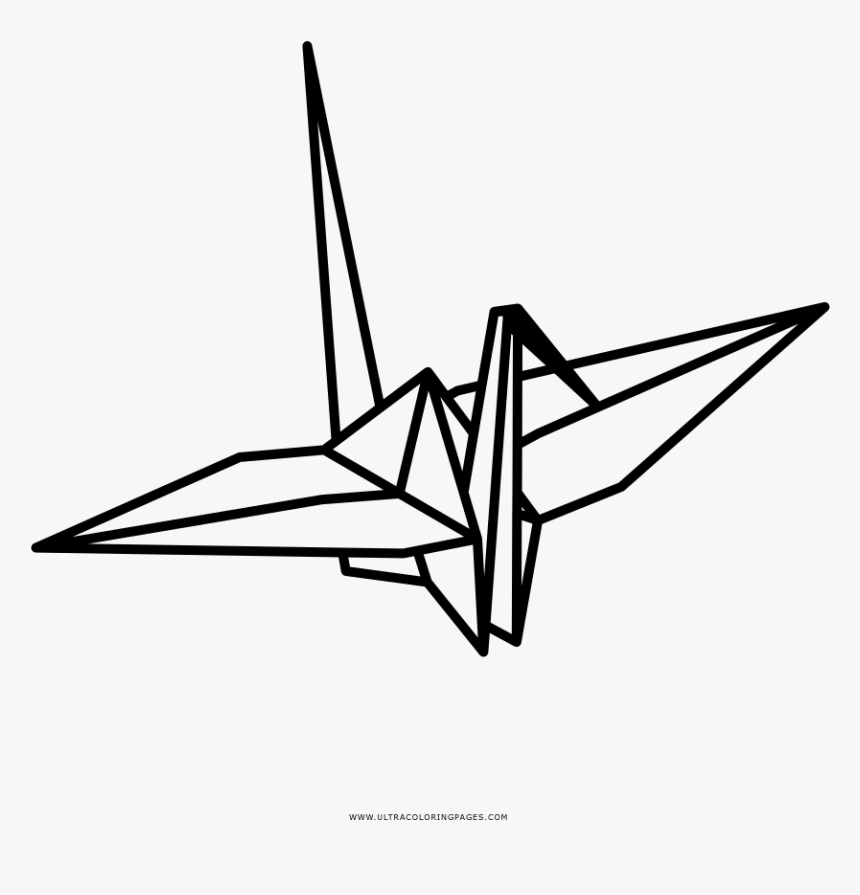
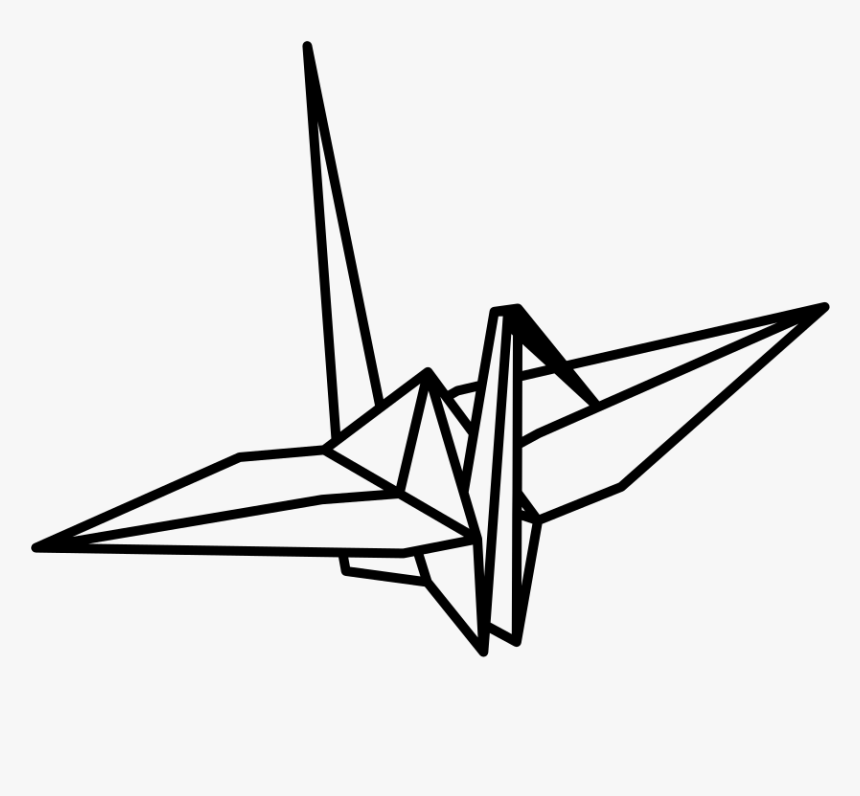
idk updates

Changed region(s): [[0.0302, 0.0603, 0.9674, 0.8442], [0.393, 0.9045, 0.5744, 0.9347], [0.3326, 0.0302, 0.3628, 0.0603]]

diff --git a/projects.js b/projects.js
@@ -42,17 +42,17 @@ const PROJECTS = [
     coverImage:  "main.jpeg",
     link: ""
   },
-  {
-    id: "boids",
-    name: "Boids Algorithm Simulation",
-    cat: "Class",
-    dateStart: "2026-04",
-    date: "2026-05",
-    desc: "Simulates Boids Algorithm for bird flocking behavior for Computational Physics Final Project.",
-    body: "",
-    tags: ["Python", "JavaScript"],
-    link: ""
-  },
+  // {
+  //   id: "boids",
+  //   name: "Boids Algorithm Simulation",
+  //   cat: "Class",
+  //   dateStart: "2026-04",
+  //   date: "2026-05",
+  //   desc: "Simulates Boids Algorithm for bird flocking behavior for Computational Physics Final Project.",
+  //   body: "",
+  //   tags: ["Python", "JavaScript"],
+  //   link: ""
+  // },
   {
     id: "meca",
     name: "6-Axis Robot Arm Control & Simulation",
@@ -75,17 +75,17 @@ const PROJECTS = [
     tags: ["MATLAB", "Arduino"],
     link: ""
   },
-  {
-    id: "cvt",
-    name: "Variable Extruder Design",
-    cat: "Research",
-    dateStart: "2025-06",
-    date: "present",
-    desc: "Short description of what this project does and what you learned from it.",
-    body: "",
-    tags: ["MATLAB", "Autodesk Inventor", "3D Printing", "Rapid Prototyping", "Laser Cutting"],
-    link: ""
-  },
+  // {
+  //   id: "cvt",
+  //   name: "Variable Extruder Design",
+  //   cat: "Research",
+  //   dateStart: "2025-06",
+  //   date: "present",
+  //   desc: "Short description of what this project does and what you learned from it.",
+  //   body: "",
+  //   tags: ["MATLAB", "Autodesk Inventor", "3D Printing", "Rapid Prototyping", "Laser Cutting"],
+  //   link: ""
+  // },
   {
     id: "mitll",
     name: "MIT Lincoln Labs Co-Op",
@@ -133,17 +133,6 @@ const PROJECTS = [
     coverImage: "wafer.jpg",
     link: "",
     slides: "full_presentation.pdf"
-  },
-  {
-    id: "vex",
-    name: "VEX Robotics Competitions",
-    cat: "Club",
-    dateStart: "2022-09",
-    date: "2024-04",
-    desc: "empty",
-    body: "",
-    tags: ["Fusion 360"],
-    link: ""
   },
   {
     id: "3dp",

diff --git a/about.html b/about.html
@@ -156,6 +156,9 @@
           <strong>DaRin Butz Foundation Research Scholar</strong> · <span style="color:var(--text-muted);">UIUC Grainger · 2026</span>
         </li> 
         <li style="margin-bottom:0.75rem;">
+          <strong>2nd Place Visitor's Favorite Award</strong> · <span style="color:var(--text-muted);">Illinois Engineering Open House · 2025</span>
+        </li> 
+        <li style="margin-bottom:0.75rem;">
           <strong>Semiconductor Technology Scholarship</strong> · <span style="color:var(--text-muted);">Samsung · 2026</span>
         </li>
         <li style="margin-bottom:0.75rem;">
@@ -164,7 +167,13 @@
         <li style="margin-bottom:0.75rem;">
           <strong>Engineering Visionary Scholarship</strong> · <span style="color:var(--text-muted);">UIUC Grainger · 2025</span>
         </li>
-      </ul>
+        <li style="margin-bottom:0.75rem;">
+            <strong>Illinois Scholar of Undergraduate Research</strong> · <span style="color:var(--text-muted);">UIUC Grainger · 2025</span>
+        </li> 
+        <li style="margin-bottom:0.75rem;">
+            <strong>3rd Place Distinguished Technology Award</strong> · <span style="color:var(--text-muted);">Illinois Engineering Open House · 2025</span>
+        </li>
+      </ul> 
     </section>
 
   </div>

diff --git a/index.html b/index.html
@@ -26,21 +26,20 @@
 
   <div class="container">
 
-    <!-- HERO -->
     <section class="hero">
       <div class="hero-text">
         <h1>Hi, I'm Victoria</h1>
         <p class="tagline">
-          <!-- TODO: Your tagline -->
-          Mechanical Engineering // Physics
+          Mechanical Engineering // Computational Physics
         </p>
+        <p>This website showcases some of the work I've done throughout the past few years. I've thoroughly enjoyed exploring robotics, mechatronics, and semiconductor fabrication. I'm extremely interested in gaining more experience in experimental physics and instrumentation, especially within quantum information.</p>
+        
         <div class="btn-row">
           <a class="btn btn-primary" href="assets/resume.pdf" target="_blank">Resume</a>
           <a class="btn btn-outline" href="https://linkedin.com/in/victoria-you" target="_blank">LinkedIn</a>
           <a class="btn btn-outline" href="https://github.com/victoriayou3306" target="_blank">GitHub</a>
         </div>
         <p class="contact-line">
-          <!-- TODO: Your email -->
           <a href="mailto:[email redacted]">[email redacted]</a>
         </p>
       </div>

diff --git a/crane.html b/crane.html
@@ -42,7 +42,7 @@
       </div>
       <p style="color:var(--text-muted);">
         I make paper cranes. I don't have a clear reason why— it just became a thing when I got stressed or bored in high school. Now I fold them whenever my hands are free, and it usually helps me think/focus. </p>
-      <p style="color:var(--text-muted);"><strong>*</strong>I almost exclusively use old scratch paper to reduce the waste of my weird hobby.
+      <p style="color:var(--text-muted);"><strong>*</strong>I almost exclusively use old scratch paper so its not totally wasteful.
       </p>
     </section>
 

diff --git a/projects.html b/projects.html
@@ -36,7 +36,7 @@
      onclick="lb(this)">
     <p>
       I've worked on a wide variety of projects, depending on the situation. I didn't include many class projects unless it was a major focus of mine or I did additional work after the assignment was submitted.
-      </p><p>For the longest time, robotics and 3D Printing were my biggest passions.* Through my college career, I've developed a strong interest in controls and nanofabrication. My work at KLA happens to be a perfect intersection of the two in precision motion, and my personal projects display much of my side hobbies.
+      </p><p>For the longest time, robotics and 3D Printing were my biggest passions.* Through my college career, I've developed a strong interest in controls and nanofabrication. My internship at KLA happens to be a perfect intersection of the two in precision motion, and my personal projects display much of my side hobbies.
     </p>
     <p>*Unsurprising outcome for a kid who spent Covid with a 3D Printer and too much time in isolation.</p>
 